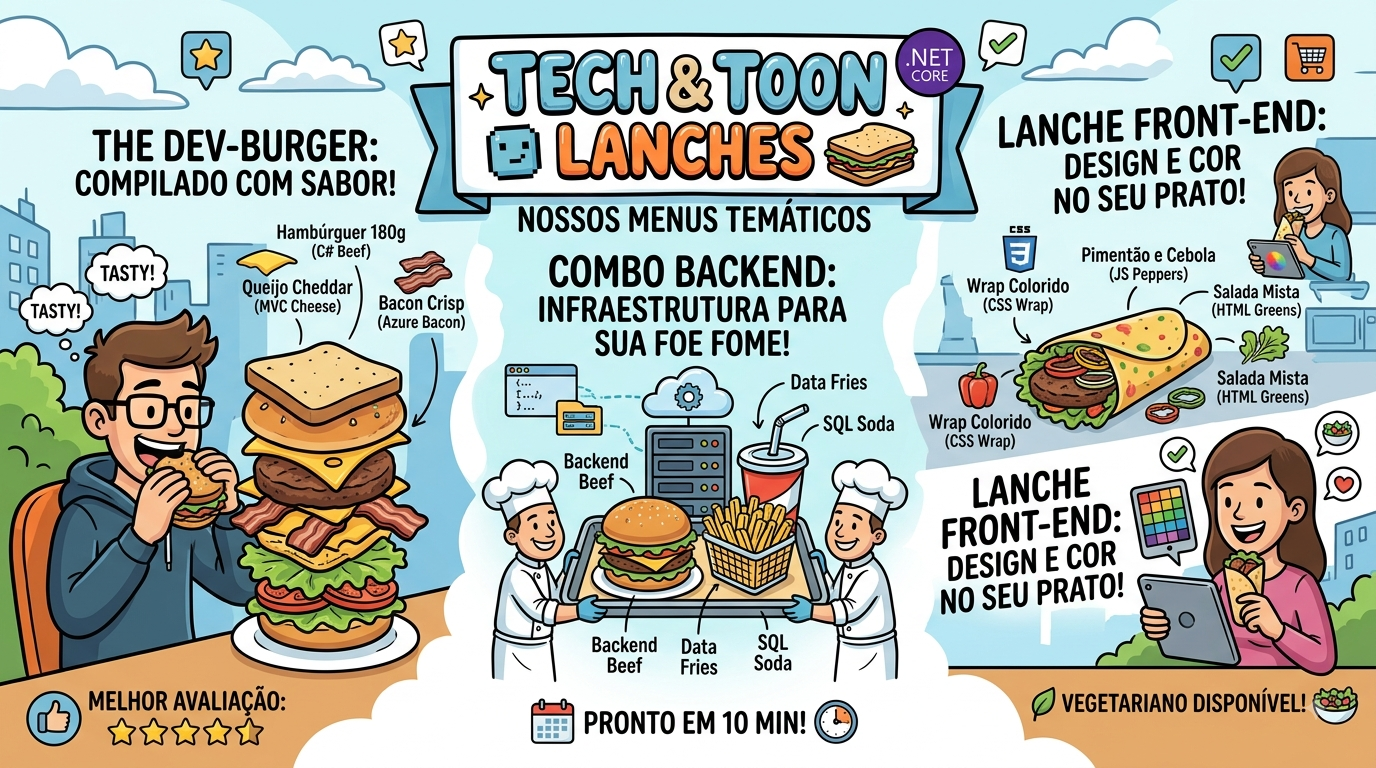
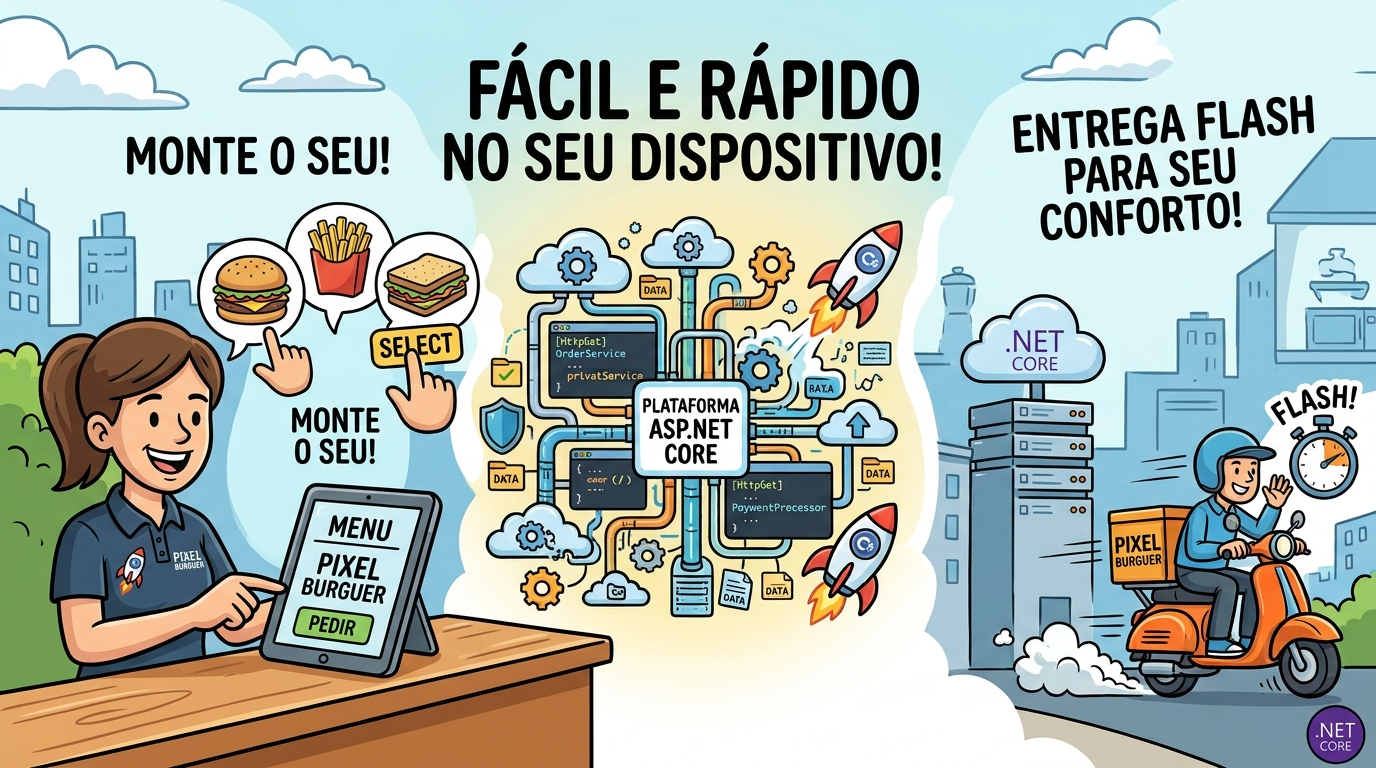
Create partial view _SnackResume and entity ShoppingCartItem

diff --git a/PixelBurguer/Migrations/20260814230319_AddSnacks.cs b/PixelBurguer/Migrations/20260814230319_AddSnacks.cs
@@ -1,0 +1,26 @@
+using Microsoft.EntityFrameworkCore.Migrations;
+
+#nullable disable
+
+namespace PixelBurguer.Migrations
+{
+    /// <inheritdoc />
+    public partial class AddSnacks : Migration
+    {
+        /// <inheritdoc />
+        protected override void Up(MigrationBuilder migrationBuilder)
+        {
+            migrationBuilder.Sql("INSERT INTO Snacks(CategoryId,SnackDescriptionShort,SnackDescriptionLong,IsSnackAvailable,ImageThumbnailUrl,ImageUrl,IsSnackFavorite,SnackName,SnackPrice) VALUES(1,'Pão, hambúrger, ovo, presunto, queijo e batata palha','Delicioso pão de hambúrger com ovo frito; presunto e queijo de primeira qualidade acompanhado com batata palha',1, '/images/cheeseSalada.png','/images/cheeseSalada.png', 0 ,'Cheese Salada', 12.50)");
+            migrationBuilder.Sql("INSERT INTO Snacks(CategoryId,SnackDescriptionShort,SnackDescriptionLong,IsSnackAvailable,ImageThumbnailUrl,ImageUrl,IsSnackFavorite,SnackName,SnackPrice) VALUES(1,'Pão, presunto, mussarela e tomate','Delicioso pão francês quentinho na chapa com presunto e mussarela bem servidos com tomate preparado com carinho.',1,'/images/mistoQuente.png','/images/mistoQuente.png',0,'Misto Quente', 8.00)");
+            migrationBuilder.Sql("INSERT INTO Snacks(CategoryId,SnackDescriptionShort,SnackDescriptionLong,IsSnackAvailable,ImageThumbnailUrl,ImageUrl,IsSnackFavorite,SnackName,SnackPrice) VALUES(1,'Pão, hambúrger, presunto, mussarela e batalha palha','Pão de hambúrger especial com hambúrger de nossa preparação e presunto e mussarela; acompanha batata palha.',1,'/images/cheeseburger.png','/images/cheeseburger.png',0,'Cheese Burger', 11.00)");
+            migrationBuilder.Sql("INSERT INTO Snacks(CategoryId,SnackDescriptionShort,SnackDescriptionLong,IsSnackAvailable,ImageThumbnailUrl,ImageUrl,IsSnackFavorite,SnackName,SnackPrice) VALUES(2,'Pão Integral, queijo branco, peito de peru, cenoura, alface, iogurte','Pão integral natural com queijo branco, peito de peru e cenoura ralada com alface picado e iorgurte natural.',1,'/images/lancheNatural.png','/images/lancheNatural.png',1,'Lanche Natural', 15.00)");
+
+        }
+
+        /// <inheritdoc />
+        protected override void Down(MigrationBuilder migrationBuilder)
+        {
+            migrationBuilder.Sql("Delete from Snacks");
+        }
+    }
+}

diff --git a/PixelBurguer/Migrations/20260821170513_ShoppingCartItem.cs b/PixelBurguer/Migrations/20260821170513_ShoppingCartItem.cs
@@ -1,0 +1,46 @@
+using Microsoft.EntityFrameworkCore.Migrations;
+
+#nullable disable
+
+namespace PixelBurguer.Migrations
+{
+    /// <inheritdoc />
+    public partial class ShoppingCartItem : Migration
+    {
+        /// <inheritdoc />
+        protected override void Up(MigrationBuilder migrationBuilder)
+        {
+            migrationBuilder.CreateTable(
+                name: "ShoppingCartIntems",
+                columns: table => new
+                {
+                    ShoppingCartItemtId = table.Column<int>(type: "int", nullable: false)
+                        .Annotation("SqlServer:Identity", "1, 1"),
+                    SnackId = table.Column<int>(type: "int", nullable: true),
+                    Quantity = table.Column<int>(type: "int", nullable: false),
+                    ShoppingCartId = table.Column<string>(type: "nvarchar(200)", maxLength: 200, nullable: true)
+                },
+                constraints: table =>
+                {
+                    table.PrimaryKey("PK_ShoppingCartIntems", x => x.ShoppingCartItemtId);
+                    table.ForeignKey(
+                        name: "FK_ShoppingCartIntems_Snacks_SnackId",
+                        column: x => x.SnackId,
+                        principalTable: "Snacks",
+                        principalColumn: "SnackId");
+                });
+
+            migrationBuilder.CreateIndex(
+                name: "IX_ShoppingCartIntems_SnackId",
+                table: "ShoppingCartIntems",
+                column: "SnackId");
+        }
+
+        /// <inheritdoc />
+        protected override void Down(MigrationBuilder migrationBuilder)
+        {
+            migrationBuilder.DropTable(
+                name: "ShoppingCartIntems");
+        }
+    }
+}

diff --git a/PixelBurguer/Migrations/20260821170513_ShoppingCartItem.Designer.cs b/PixelBurguer/Migrations/20260821170513_ShoppingCartItem.Designer.cs
@@ -3,6 +3,7 @@ using System;
 using Microsoft.EntityFrameworkCore;
 using Microsoft.EntityFrameworkCore.Infrastructure;
 using Microsoft.EntityFrameworkCore.Metadata;
+using Microsoft.EntityFrameworkCore.Migrations;
 using Microsoft.EntityFrameworkCore.Storage.ValueConversion;
 using PixelBurguer.Context;
 
@@ -11,9 +12,11 @@ using PixelBurguer.Context;
 namespace PixelBurguer.Migrations
 {
     [DbContext(typeof(AppDbContext))]
-    partial class AppDbContextModelSnapshot : ModelSnapshot
+    [Migration("20260821170513_ShoppingCartItem")]
+    partial class ShoppingCartItem
     {
-        protected override void BuildModel(ModelBuilder modelBuilder)
+        /// <inheritdoc />
+        protected override void BuildTargetModel(ModelBuilder modelBuilder)
         {
 #pragma warning disable 612, 618
             modelBuilder

diff --git a/PixelBurguer/Controllers/SnackController.cs b/PixelBurguer/Controllers/SnackController.cs
@@ -1,0 +1,28 @@
+using Microsoft.AspNetCore.Mvc;
+using PixelBurguer.Repositories.Interfaces;
+using PixelBurguer.ViewModels;
+
+namespace PixelBurguer.Controllers
+{
+    public class SnackController : Controller
+    {
+        private readonly ISnackRepository _snackRepository;
+
+        public SnackController(ISnackRepository snackRepository)
+        {
+            _snackRepository = snackRepository;
+        }
+
+        public IActionResult List()
+        {
+
+            //var snacks = _snackRepository.Snacks;
+            //return View(snacks);
+            var snackListViewModel = new SnackListViewModel();
+            snackListViewModel.Snacks = _snackRepository.Snacks;
+            snackListViewModel.CurrentCategory = "Categoria atual";
+
+            return View(snackListViewModel);
+        }
+    }
+}

diff --git a/PixelBurguer/Program.cs b/PixelBurguer/Program.cs
@@ -1,5 +1,7 @@
 using Microsoft.EntityFrameworkCore;
 using PixelBurguer.Context;
+using PixelBurguer.Repositories;
+using PixelBurguer.Repositories.Interfaces;
 
 var builder = WebApplication.CreateBuilder(args);
 
@@ -8,6 +10,9 @@ builder.Services.AddControllersWithViews();
 
 builder.Services.AddDbContext<AppDbContext>(options =>
     options.UseSqlServer(builder.Configuration.GetConnectionString("DefaultConnection")));
+
+builder.Services.AddTransient<ISnackRepository, SnackRepository>();
+builder.Services.AddTransient<ICategoryRepository, CategoryRepository>();
 
 var app = builder.Build();
 

diff --git a/PixelBurguer/Models/ShoppingCartItem.cs b/PixelBurguer/Models/ShoppingCartItem.cs
@@ -1,0 +1,19 @@
+using System.ComponentModel.DataAnnotations;
+using System.ComponentModel.DataAnnotations.Schema;
+
+namespace PixelBurguer.Models
+{
+    [Table("ShoppingCartIntems")]
+    public class ShoppingCartItem
+    {
+        [Key]
+        public int ShoppingCartItemtId { get; set; }
+
+        public Snack Snack { get; set; }
+
+        public int Quantity { get; set; }
+
+        [StringLength(200)]
+        public string ShoppingCartId { get; set; }
+    }
+}

diff --git a/PixelBurguer/Migrations/20260814230319_AddSnacks.Designer.cs b/PixelBurguer/Migrations/20260814230319_AddSnacks.Designer.cs
@@ -11,7 +11,7 @@ using PixelBurguer.Context;
 namespace PixelBurguer.Migrations
 {
     [DbContext(typeof(AppDbContext))]
-    [Migration("20260812182444_AddSnacks")]
+    [Migration("20260814230319_AddSnacks")]
     partial class AddSnacks
     {
         /// <inheritdoc />

diff --git a/PixelBurguer/Repositories/CategoryRepository.cs b/PixelBurguer/Repositories/CategoryRepository.cs
@@ -6,6 +6,7 @@ namespace PixelBurguer.Repositories
 {
     public class CategoryRepository : ICategoryRepository
     {
+        //injection of the database context
         private readonly AppDbContext _context;
 
         public CategoryRepository(AppDbContext context)

diff --git a/PixelBurguer/ViewModels/SnackListViewModel.cs b/PixelBurguer/ViewModels/SnackListViewModel.cs
@@ -1,0 +1,10 @@
+using PixelBurguer.Models;
+
+namespace PixelBurguer.ViewModels
+{
+    public class SnackListViewModel
+    {
+        public IEnumerable<Snack> Snacks { get; set; }
+        public string CurrentCategory { get; set; }
+    }
+}

diff --git a/PixelBurguer/Context/AppDbContext.cs b/PixelBurguer/Context/AppDbContext.cs
@@ -12,5 +12,7 @@ namespace PixelBurguer.Context
 
         public DbSet<Category> Categories { get; set; }
         public DbSet<Snack> Snacks { get; set; }
+
+        public DbSet<ShoppingCartItem> ShoppingCartIntems { get; set; }
     }
 }

diff --git a/PixelBurguer/Models/Snack.cs b/PixelBurguer/Models/Snack.cs
@@ -6,7 +6,6 @@ namespace PixelBurguer.Models
     [Table("Snacks")]
     public class Snack
     {
-        
         public int SnackId { get; set; }
 
         [Required(ErrorMessage = "The SnackName field is required.")]

diff --git a/PixelBurguer/Repositories/Interfaces/ICategoryRepository.cs b/PixelBurguer/Repositories/Interfaces/ICategoryRepository.cs
@@ -5,5 +5,5 @@ namespace PixelBurguer.Repositories.Interfaces
     public interface ICategoryRepository
     {
         IEnumerable<Category> Categories { get; }
-        }
+    }
 }
